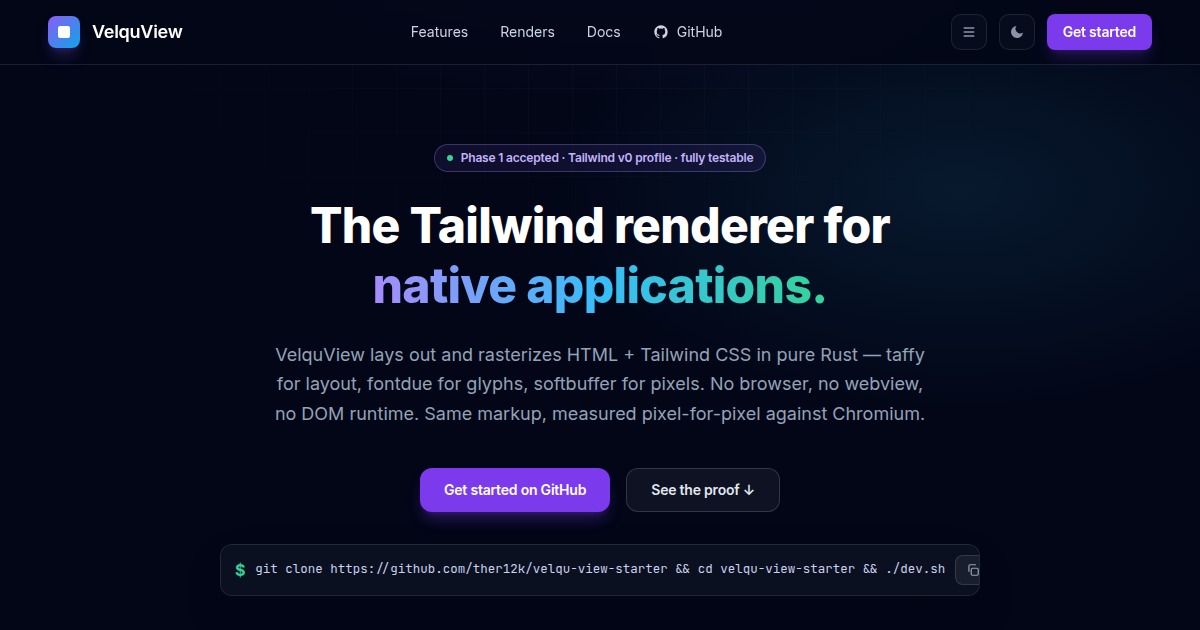
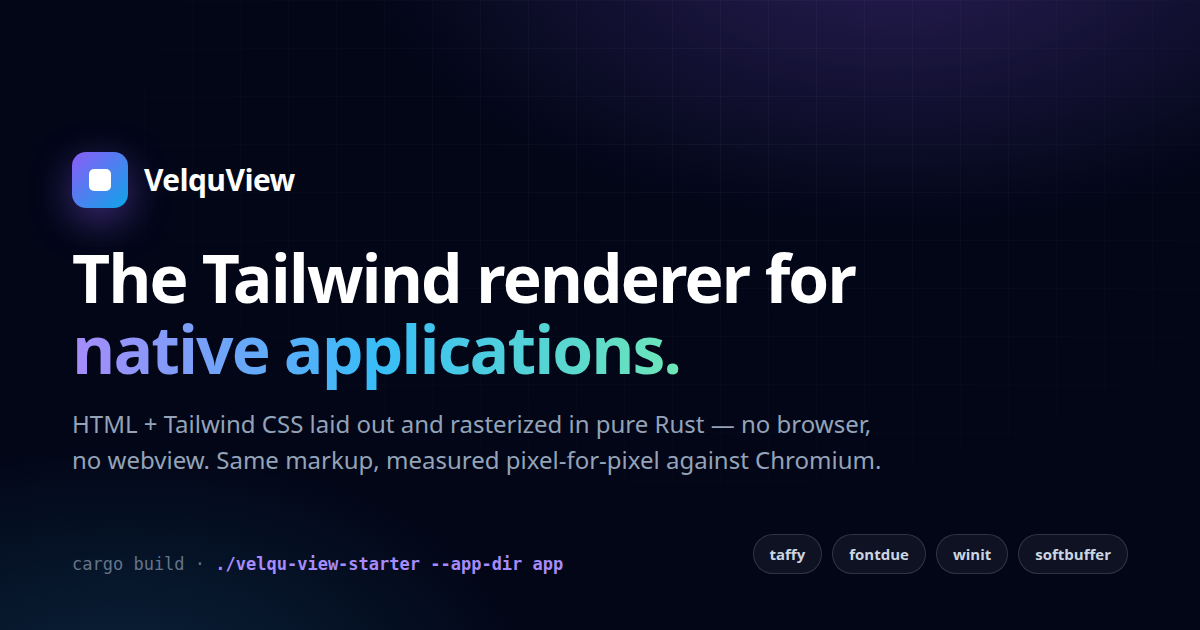
site: designed OG card + product-shot gallery thumbnails
- og.png: dedicated 1200x630 card (og-card.html kept in repo) — brand
  mark, gradient headline, tagline, install command, engine chips on
  the hero grid — replaces the page screenshot that showed nav chrome
- renders gallery: cards now show each set's VELQU render (clean
  product shots) instead of the wide A/B montages scaled to ~22% with
  unreadable labels; montages remain the click-through, captions say
  'Full side-by-side on GitHub →'

diff --git a/site/index.html b/site/index.html
@@ -217,43 +217,43 @@ view.<span class="c-fn">load_html</span>(<span class="c-str">r#"&lt;main class="
       </div>
       <div class="mt-12 grid md:grid-cols-2 gap-6">
         <a href="https://github.com/ther12k/velqu-showcase/blob/main/login/compare.png" class="render-card">
-          <img src="assets/ab-login.png" alt="Login card: velqu vs Chromium">
+          <img src="assets/shot-login.png" alt="Sign-in card rendered by VelquView" style="object-position: center;">
           <div class="p-5">
             <div class="flex items-center justify-between gap-3">
               <h3 class="text-slate-900 dark:text-white font-semibold">Sign-in card</h3>
               <span class="pill pill-green">geometry identical to the pixel</span>
             </div>
-            <p class="mt-2 text-sm text-slate-600 dark:text-slate-400">Card at exactly x 450–830, y 204–594 in both engines. Ported from Flowbite's card-with-form.</p>
+            <p class="mt-2 text-sm text-slate-600 dark:text-slate-400">Card at exactly x 450–830, y 204–594 in both engines. Ported from Flowbite's card-with-form. <span class="link">Full side-by-side on GitHub →</span></p>
           </div>
         </a>
         <a href="https://github.com/ther12k/velqu-showcase/blob/main/ab/compare.png" class="render-card">
-          <img src="assets/ab-components.png" alt="Six components: velqu vs Chromium">
+          <img src="assets/shot-ab.png" alt="Component stack rendered by VelquView">
           <div class="p-5">
             <div class="flex items-center justify-between gap-3">
               <h3 class="text-slate-900 dark:text-white font-semibold">Component stack ×6</h3>
               <span class="pill pill-green">4 of 6 sections at 0px</span>
             </div>
-            <p class="mt-2 text-sm text-slate-600 dark:text-slate-400">Buttons, alerts, badges, pricing, table, testimonial — max drift 4px, from text metrics alone.</p>
+            <p class="mt-2 text-sm text-slate-600 dark:text-slate-400">Buttons, alerts, badges, pricing, table, testimonial — max drift 4px, from text metrics alone. <span class="link">Full side-by-side on GitHub →</span></p>
           </div>
         </a>
         <a href="https://github.com/ther12k/velqu-showcase/blob/main/chat/compare.png" class="render-card">
-          <img src="assets/ab-chat.png" alt="Chat UI: velqu vs Chromium">
+          <img src="assets/shot-chat.png" alt="Chat UI rendered by VelquView">
           <div class="p-5">
             <div class="flex items-center justify-between gap-3">
               <h3 class="text-slate-900 dark:text-white font-semibold">Chat UI</h3>
               <span class="pill pill-green">bubbles exact, both engines</span>
             </div>
-            <p class="mt-2 text-sm text-slate-600 dark:text-slate-400">Outgoing bubbles via flex-row-reverse land at identical coordinates in taffy and Chromium.</p>
+            <p class="mt-2 text-sm text-slate-600 dark:text-slate-400">Outgoing bubbles via flex-row-reverse land at identical coordinates in taffy and Chromium. <span class="link">Full side-by-side on GitHub →</span></p>
           </div>
         </a>
         <a href="https://github.com/ther12k/velqu-showcase/blob/main/windmill/compare.png" class="render-card">
-          <img src="assets/ab-windmill.png" alt="Windmill dashboard clone: velqu vs Chromium">
+          <img src="assets/shot-windmill.png" alt="Windmill dashboard clone rendered by VelquView">
           <div class="p-5">
             <div class="flex items-center justify-between gap-3">
               <h3 class="text-slate-900 dark:text-white font-semibold">Windmill dashboard clone</h3>
               <span class="pill pill-green">full page, no layout divergence</span>
             </div>
-            <p class="mt-2 text-sm text-slate-600 dark:text-slate-400">A complete MIT admin template (3k★) — sidebar, stats, table, panels — cloned and measured.</p>
+            <p class="mt-2 text-sm text-slate-600 dark:text-slate-400">A complete MIT admin template (3k★) — sidebar, stats, table, panels — cloned and measured. <span class="link">Full side-by-side on GitHub →</span></p>
           </div>
         </a>
       </div>

diff --git a/site/og-card.html b/site/og-card.html
@@ -1,0 +1,45 @@
+<!doctype html>
+<html>
+<head>
+<meta charset="utf-8">
+<link rel="preconnect" href="https://fonts.gstatic.com" crossorigin>
+<link href="https://fonts.googleapis.com/css2?family=Inter:wght@600;700;800&family=JetBrains+Mono:wght@400;600&display=swap" rel="stylesheet">
+<style>
+  * { margin: 0; padding: 0; box-sizing: border-box; }
+  body { width: 1200px; height: 630px; overflow: hidden; font-family: 'Inter', system-ui, sans-serif;
+         background:
+           radial-gradient(900px 480px at 75% -10%, rgba(139,92,246,.28), transparent 60%),
+           radial-gradient(700px 420px at 10% 110%, rgba(56,189,248,.16), transparent 60%),
+           #020617; color: #e2e8f0; position: relative; }
+  body::before { content:""; position:absolute; inset:0;
+    background-image: linear-gradient(rgba(255,255,255,.035) 1px, transparent 1px),
+                      linear-gradient(90deg, rgba(255,255,255,.035) 1px, transparent 1px);
+    background-size: 48px 48px;
+    mask-image: radial-gradient(1000px 620px at 60% 20%, black, transparent 80%); }
+  .wrap { position: relative; height: 100%; display: flex; flex-direction: column; justify-content: center; padding: 0 72px; }
+  .brand { display: flex; align-items: center; gap: 16px; }
+  .mark { width: 56px; height: 56px; border-radius: 14px; background: linear-gradient(135deg,#8b5cf6,#0ea5e9);
+          display:flex; align-items:center; justify-content:center; box-shadow: 0 12px 40px rgba(139,92,246,.45); }
+  .mark div { width: 22px; height: 22px; border-radius: 5px; background: #fff; }
+  .brand span { font-size: 30px; font-weight: 700; color: #fff; letter-spacing: -0.02em; }
+  h1 { margin-top: 34px; font-size: 66px; line-height: 1.08; font-weight: 800; letter-spacing: -0.03em; color: #fff; width: 900px; }
+  h1 em { font-style: normal; background: linear-gradient(90deg,#a78bfa,#38bdf8,#6ee7b7); -webkit-background-clip: text; background-clip: text; color: transparent; }
+  p { margin-top: 22px; font-size: 24px; line-height: 1.5; color: #94a3b8; width: 820px; }
+  .chips { position: absolute; right: 72px; bottom: 56px; display: flex; gap: 10px; }
+  .chip { font-size: 15px; font-weight: 600; padding: 9px 16px; border-radius: 999px;
+          border: 1px solid rgba(255,255,255,.14); background: rgba(255,255,255,.05); color: #cbd5e1; }
+  .foot { position: absolute; left: 72px; bottom: 56px; font-family: 'JetBrains Mono', monospace;
+          font-size: 17px; color: #64748b; }
+  .foot b { color: #a78bfa; font-weight: 600; }
+</style>
+</head>
+<body>
+  <div class="wrap">
+    <div class="brand"><div class="mark"><div></div></div><span>VelquView</span></div>
+    <h1>The Tailwind renderer for <em>native applications.</em></h1>
+    <p>HTML + Tailwind CSS laid out and rasterized in pure Rust — no browser, no webview. Same markup, measured pixel-for-pixel against Chromium.</p>
+  </div>
+  <div class="foot">cargo build · <b>./velqu-view-starter --app-dir app</b></div>
+  <div class="chips"><div class="chip">taffy</div><div class="chip">fontdue</div><div class="chip">winit</div><div class="chip">softbuffer</div></div>
+</body>
+</html>
